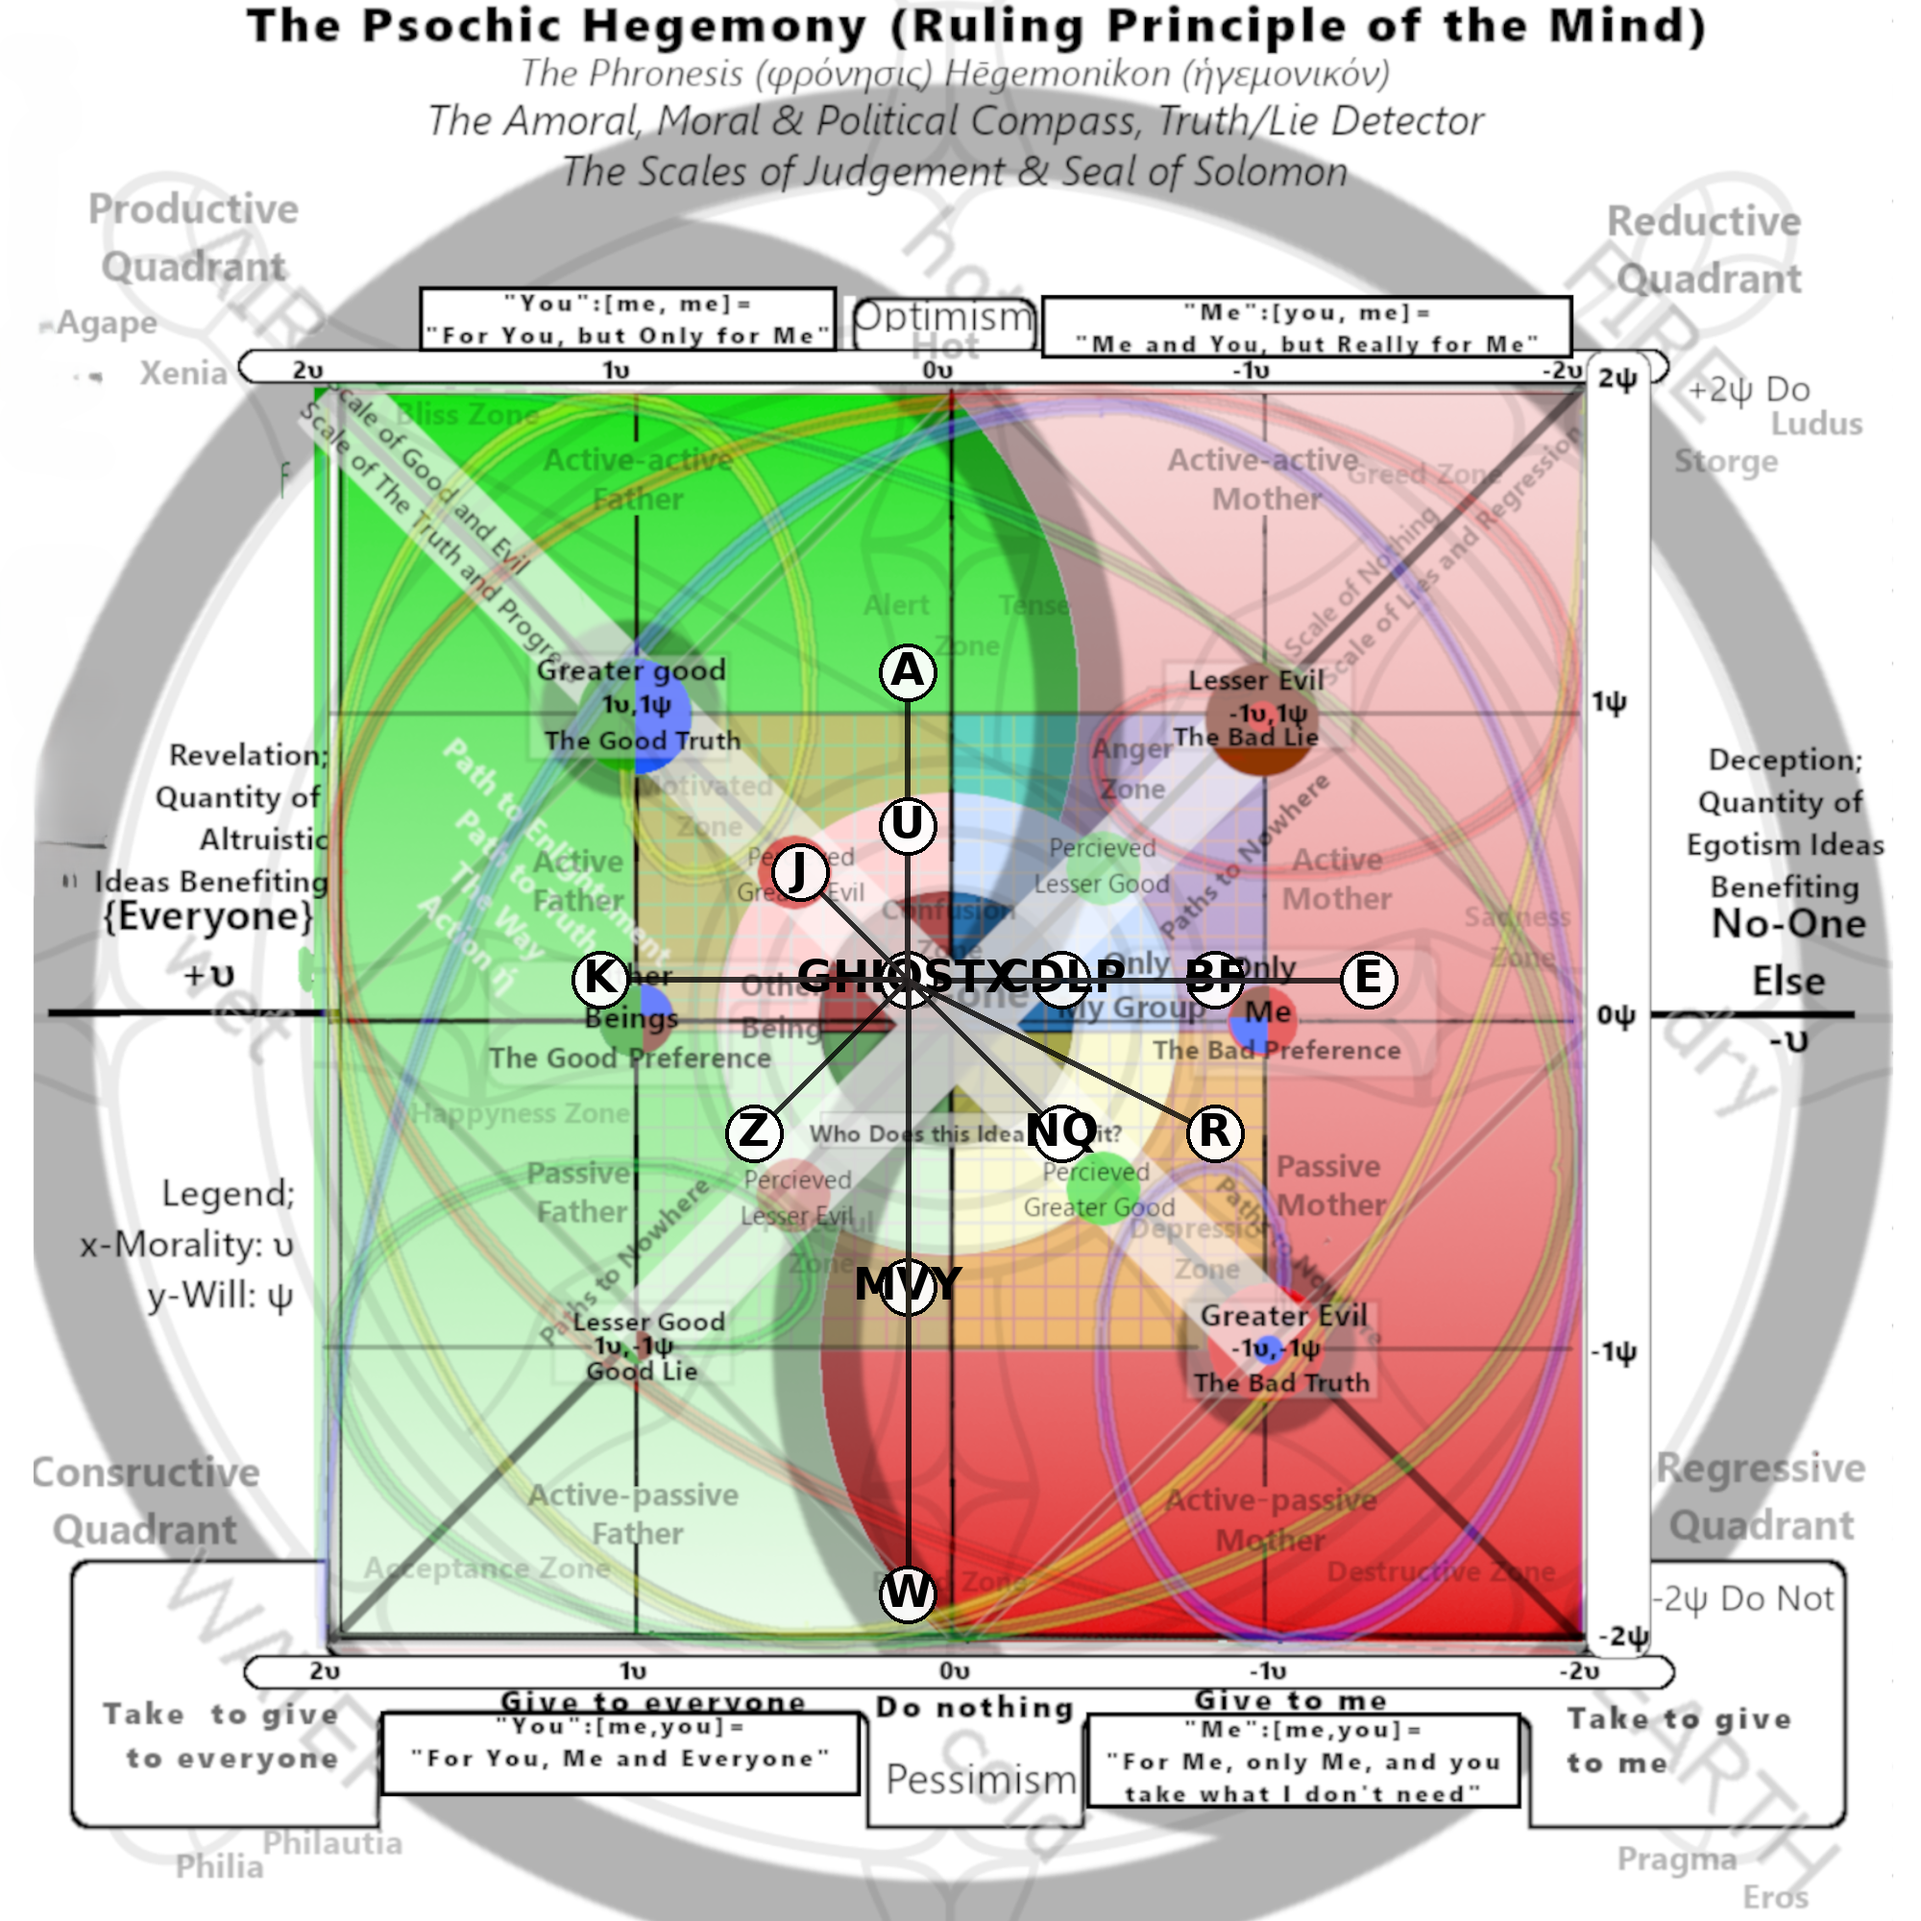
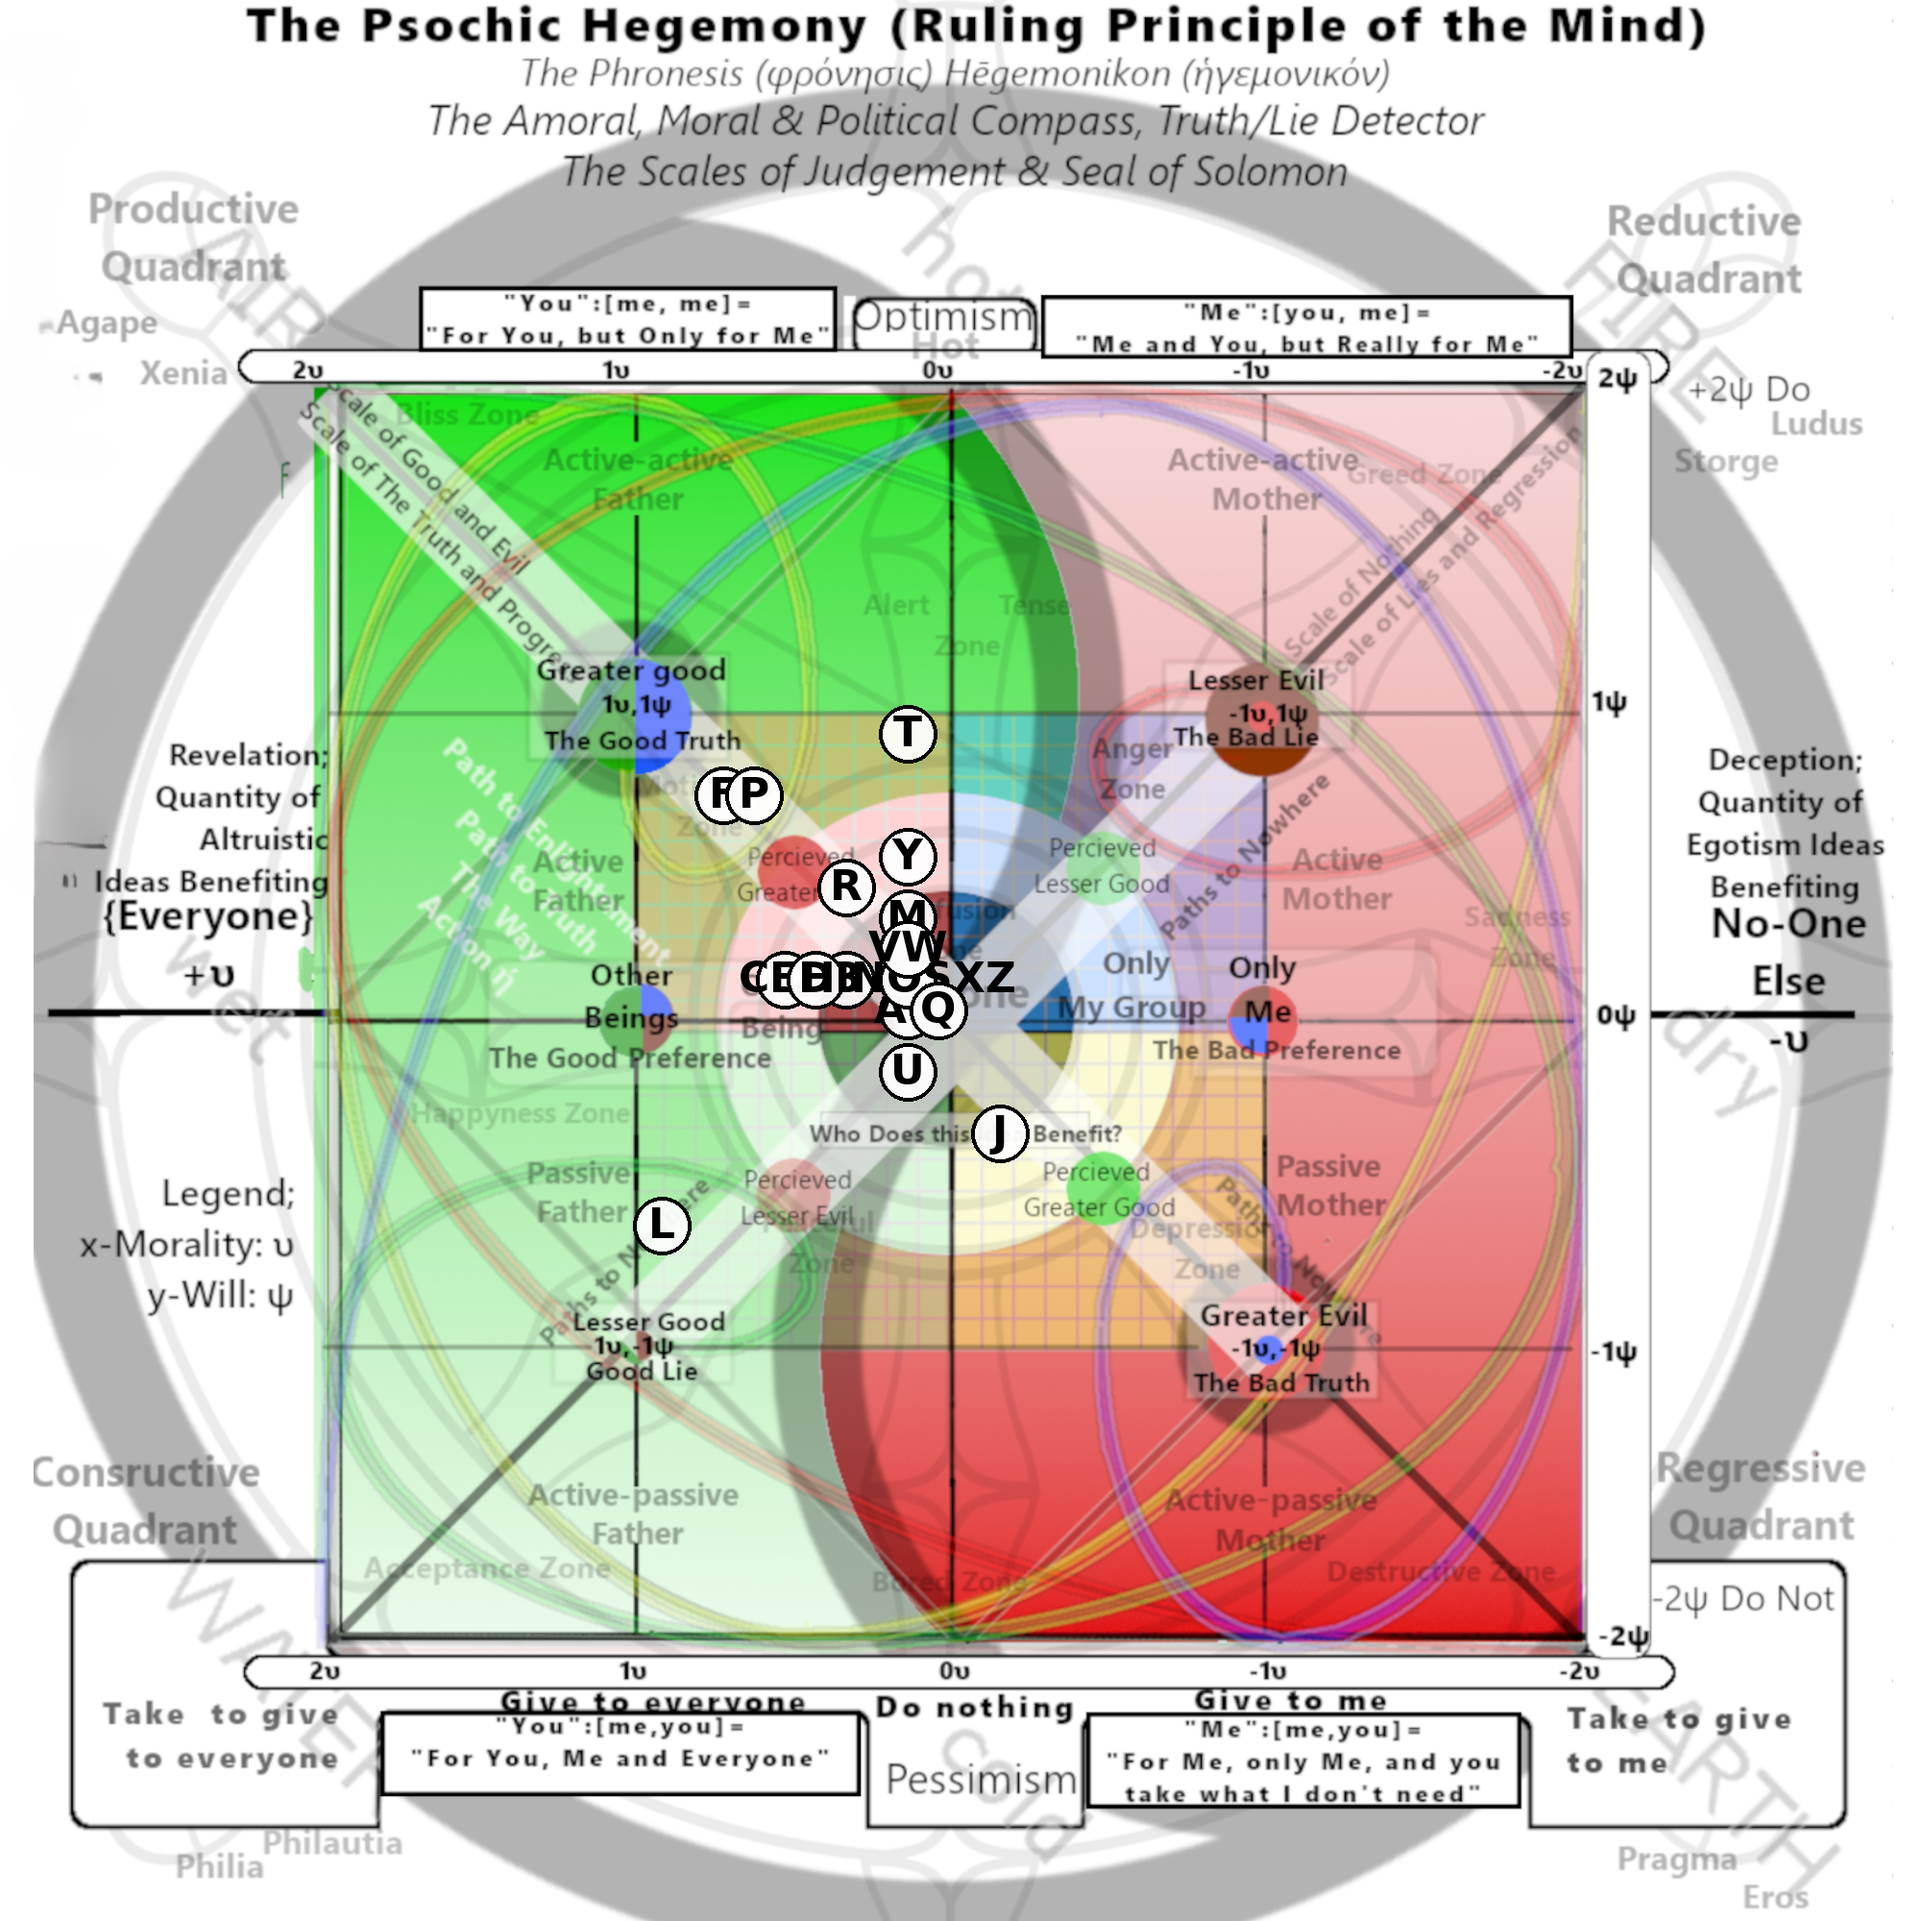
Letters placed on the Hegemony wall-to-wall, ink centroid, four rotations; 26 overlay images

diff --git a/names-omniweave-170926/alphabet-basic-forms.md b/names-omniweave-170926/alphabet-basic-forms.md
@@ -1,77 +1,74 @@
 # Alphabet of Basic Forms — Hegemony Mapping
 
-Each majuscule letter, read as fontless geometry the way the carved Greek capitals are pure strokes with no pen order, has a vector. That vector is its position on the Hegemony. The coordinate is derived from the form by one rule and nothing else. No judgement per letter.
+Each majuscule letter is placed on the Hegemony as a fontless carved form filling the ±2 square wall to wall. Its coordinate is where its ink balances. Each letter is read in four rotations, 0°, 90°, 180° and 270° counter-clockwise, and each rotation gives its own coordinate.
 
-The plotted result is `hegemony-letters.png`.
-
----
-
-## The rule
-
-Every element of a form contributes one unit vector in page coordinates, x to the right and y upward.
-
-- A vertical stroke, I, contributes nothing. It stands. (0, 0).
-- A bar contributes one unit in the direction it extends from its attachment. A bar attached at its centre, or spanning symmetrically between two strokes, contributes nothing.
-- A bowl, C, contributes one unit toward its mouth. Rotated bowls point where their mouth faces. A bowl sealed against a stroke still points where it swells, because D is C on I and inherits C's direction.
-- A stream, a diagonal, contributes one unit toward the point it meets another element at. Two streams that cross rather than meet contribute nothing between them.
-
-The form's vector is the sum. The alphabet is scaled so the largest component reaches 2, which gives a factor of one half.
-
-Orientation is the diagram's own: page-right is −υ, toward the self; page-left is +υ, toward everyone; page-up is +ψ; page-down is −ψ.
-
-Composite letters inherit by construction. B is two D's, so twice D. O is C against its mirror, so it cancels. A is V inverted with a bar that adds nothing, so it is V reflected.
+The summary plot of every letter at 0° is `hegemony-letters.png`. One image per letter, showing the letter placed on the grid with all four rotation points marked, is in `letters/`.
 
 ---
 
-## Derivation
+## Method
 
-| Letter | Elements | Raw sum (x, y) | (υ, ψ) |
-|---|---|---|---|
-| A | stream to apex (+1,+1) + stream to apex (-1,+1) + bar symmetric (+0,+0) | (+0, +2) | (+0, +1) |
-| B | I (+0,+0) + bowl upper (+1,+0) + bowl lower (+1,+0) | (+2, +0) | (-1, +0) |
-| C | bowl (+1,+0) | (+1, +0) | (-0.5, +0) |
-| D | I (+0,+0) + bowl (+1,+0) | (+1, +0) | (-0.5, +0) |
-| E | I (+0,+0) + bar top (+1,+0) + bar mid (+1,+0) + bar base (+1,+0) | (+3, +0) | (-1.5, +0) |
-| F | I (+0,+0) + bar top (+1,+0) + bar mid (+1,+0) | (+2, +0) | (-1, +0) |
-| G | bowl (+1,+0) + bar inward (-1,+0) + stub (+0,+0) | (+0, +0) | (+0, +0) |
-| H | I (+0,+0) + I (+0,+0) + bar symmetric (+0,+0) | (+0, +0) | (+0, +0) |
-| I | I (+0,+0) | (+0, +0) | (+0, +0) |
-| J | I (+0,+0) + hook, mouth up-left (-0.71,+0.71) | (-0.71, +0.71) | (+0.35, +0.35) |
-| K | I (+0,+0) + stream to stem (-1,+1) + stream to stem (-1,-1) | (-2, +0) | (+1, +0) |
-| L | I (+0,+0) + bar base (+1,+0) | (+1, +0) | (-0.5, +0) |
-| M | I (+0,+0) + stream to valley (+1,-1) + stream to valley (-1,-1) + I (+0,+0) | (+0, -2) | (+0, -1) |
-| N | I (+0,+0) + stream (+1,-1) + I (+0,+0) | (+1, -1) | (-0.5, -0.5) |
-| O | bowl (+1,+0) + bowl mirrored (-1,+0) | (+0, +0) | (+0, +0) |
-| P | I (+0,+0) + bowl upper (+1,+0) | (+1, +0) | (-0.5, +0) |
-| Q | O (+0,+0) + tail (+1,-1) | (+1, -1) | (-0.5, -0.5) |
-| R | I (+0,+0) + bowl upper (+1,+0) + leg (+1,-1) | (+2, -1) | (-1, -0.5) |
-| S | upper bowl, mouth right (+1,+0) + lower bowl, mouth left (-1,+0) | (+0, +0) | (+0, +0) |
-| T | I (+0,+0) + bar symmetric (+0,+0) | (+0, +0) | (+0, +0) |
-| U | bowl, mouth up (+0,+1) | (+0, +1) | (+0, +0.5) |
-| V | stream to point (+1,-1) + stream to point (-1,-1) | (+0, -2) | (+0, -1) |
-| W | stream (+1,-1) + stream (-1,-1) + stream (+1,-1) + stream (-1,-1) | (+0, -4) | (+0, -2) |
-| X | streams crossing (+0,+0) | (+0, +0) | (+0, +0) |
-| Y | stream to junction (+1,-1) + stream to junction (-1,-1) + I (+0,+0) | (+0, -2) | (+0, -1) |
-| Z | bar symmetric (+0,+0) + stream (-1,-1) + bar symmetric (+0,+0) | (-1, -1) | (+0.5, -0.5) |
+The letter is drawn as plain strokes at carved-capital proportions, scaled so its extremities touch the walls of the square. The stem of E stands on the +2υ wall and its bars reach the −2υ wall. The coordinate is the balance point of the ink, area-weighted, read on the diagram's axes: +υ to the left, −υ to the right, +ψ up, −ψ down. The letter is then rotated a quarter turn at a time within the same square and the balance point read again.
+
+No per-letter judgement enters. The shape and the square decide.
 
 ---
 
-## What the mapping shows
+## Coordinates
 
-**Seven letters sit at the origin: G, H, I, O, S, T, X.** Every one of them is either closed, symmetrical, or a bare stroke. They have no vector because the form gives none. These are the letters that name states rather than motions, and the Hegemony agrees by placing them at No-one, neutral.
-
-**Only three letters reach +υ, toward everyone: K, J, Z.** K is the strongest at (+1, 0), because both its streams converge onto the stem from the right, which points the whole form left. J and Z are weak and diagonal.
-
-**Everything with a bar or a bowl goes −υ, toward the self.** C, D, L, P at (−0.5, 0); B, F at (−1, 0); E at (−1.5, 0), the furthest toward the self in the set. The reason is structural rather than semantic: the Latin majuscule extends its bars and opens its bowls rightward, and under the diagram's orientation rightward is the self. The alphabet as a written system leans toward −υ. That is a finding about the alphabet, not a fault in the rule.
-
-**The vertical axis belongs to the streams.** A is the only letter pointing cleanly up, (0, +1). U reaches (0, +0.5). Everything converging downward stacks on −ψ: M, V and Y all at (0, −1), and W at (0, −2), the only letter to reach the edge of the grid on either axis.
-
-**E and F, P and R, A and V.** E and F differ by the base bar and it costs half a unit of υ. P and R differ by the leg and it adds half a unit of −ψ. A and V are reflections and land at (0, +1) and (0, −1), which is the diagram's own optimism and pessimism poles.
+| Letter | 0° | 90° | 180° | 270° |
+|---|---|---|---|---|
+| A | (+0.00, -0.12) | (-0.12, +0.01) | (+0.01, +0.12) | (+0.12, +0.00) |
+| B | (+0.17, +0.00) | (+0.00, -0.16) | (-0.16, +0.00) | (+0.00, +0.17) |
+| C | (+0.44, +0.00) | (+0.00, -0.44) | (-0.44, +0.00) | (+0.00, +0.44) |
+| D | (+0.31, +0.00) | (+0.00, -0.31) | (-0.31, +0.00) | (+0.00, +0.31) |
+| E | (+0.41, +0.01) | (+0.01, -0.40) | (-0.40, +0.00) | (+0.00, +0.41) |
+| F | (+0.58, +0.58) | (+0.58, -0.57) | (-0.57, -0.57) | (-0.57, +0.58) |
+| G | (+0.03, -0.06) | (-0.06, -0.03) | (-0.03, +0.07) | (+0.07, +0.03) |
+| H | (+0.00, +0.00) | (+0.00, +0.00) | (+0.00, +0.01) | (+0.01, +0.00) |
+| I | (+0.00, +0.00) | (+0.00, +0.00) | (+0.00, +0.00) | (+0.00, +0.00) |
+| J | (-0.27, -0.54) | (-0.54, +0.28) | (+0.28, +0.54) | (+0.54, -0.27) |
+| K | (+0.44, +0.00) | (+0.00, -0.44) | (-0.44, +0.00) | (+0.00, +0.44) |
+| L | (+0.83, -0.82) | (-0.82, -0.82) | (-0.82, +0.82) | (+0.82, +0.83) |
+| M | (+0.00, +0.20) | (+0.20, +0.00) | (+0.00, -0.20) | (-0.20, +0.00) |
+| N | (+0.00, +0.00) | (+0.00, +0.00) | (+0.00, +0.00) | (+0.00, +0.00) |
+| O | (+0.00, +0.00) | (+0.00, +0.00) | (+0.00, +0.00) | (+0.00, +0.00) |
+| P | (+0.45, +0.64) | (+0.64, -0.44) | (-0.44, -0.63) | (-0.63, +0.45) |
+| Q | (-0.10, -0.10) | (-0.10, +0.10) | (+0.10, +0.10) | (+0.10, -0.10) |
+| R | (+0.22, +0.30) | (+0.30, -0.22) | (-0.22, -0.30) | (-0.30, +0.22) |
+| S | (+0.00, +0.01) | (+0.01, +0.00) | (+0.00, +0.00) | (+0.00, +0.00) |
+| T | (+0.00, +0.81) | (+0.81, +0.01) | (+0.01, -0.80) | (-0.80, +0.00) |
+| U | (+0.00, -0.31) | (-0.31, +0.00) | (+0.00, +0.32) | (+0.32, +0.00) |
+| V | (+0.00, +0.07) | (+0.07, +0.01) | (+0.01, -0.06) | (-0.06, +0.00) |
+| W | (+0.00, +0.08) | (+0.08, +0.01) | (+0.01, -0.07) | (-0.07, +0.00) |
+| X | (+0.00, -0.00) | (-0.00, +0.01) | (+0.01, +0.01) | (+0.01, +0.00) |
+| Y | (-0.00, +0.42) | (+0.42, +0.01) | (+0.01, -0.41) | (-0.41, -0.00) |
+| Z | (+0.00, +0.01) | (+0.01, +0.01) | (+0.01, -0.00) | (-0.00, +0.00) |
 
 ---
 
-## What is not in this document
+## What the placement shows
 
-The seven-plane readings are not carried here. The Actualism document's four perspectives per letter are readings relative to the form, and some of them may hold and some of them may not; that assessment is separate from the coordinate and is left where it stands. This document is the vector only.
+**F sits in the productive quadrant at (+0.58, +0.58).** Its stem stands on the everyone wall and its two bars hang in the upper half, so its weight is up and left. F is the clearest productive form in the set at 0°.
 
-The Omni-Weave bigram table is a separate instrument and stays separate.
+**E, by contrast, is at (+0.41, +0.01).** Adding the base bar to F pulls it down onto the axis. Energy is level; force is lifted.
+
+**L is the furthest from centre of any letter, at (+0.83, −0.82).** Stem on the everyone wall, bar along the floor. Lesser Good, the Good Lie. T is its vertical opposite at (0.00, +0.81), stem central, bar along the ceiling: Optimism.
+
+**P at (+0.45, +0.64) and R at (+0.22, +0.30).** The leg drags R back toward centre. Potential held high sits further into the productive quadrant than potential released.
+
+**J is the only base form to land in the regressive quadrant, at (−0.27, −0.54).** The stem sits right of centre and the hook drops below.
+
+**Nine letters sit at or within a few hundredths of the origin: H, I, N, O, S, X, Z, plus G and V, W within a tenth.** These are the forms whose ink is symmetrical about the centre. The Hegemony reads them as No-one, neutral will, in every rotation.
+
+**Rotation moves a letter round the origin.** A quarter turn maps (υ, ψ) to (ψ, −υ), so each letter's four points lie on a circle of fixed radius. The radius is what the letter has and the rotation is where it puts it. L's radius is the largest, about 1.17; the origin letters have none. C at 0° is (+0.44, 0) and at 270° is (0, +0.44): the open bowl faces everyone, then faces up.
+
+---
+
+## Composition check
+
+D at 0° is (+0.31, 0). C at 0° is (+0.44, 0). Closing the bowl against the stem moves the balance toward centre by adding ink on the +υ wall. B, two bowls on the same stem, is (+0.17, 0): further toward centre again. The family C, D, B runs inward from the everyone side as containment increases.
+
+---
+
+The seven-plane readings and the Omni-Weave bigram table are separate instruments and are not carried here.
